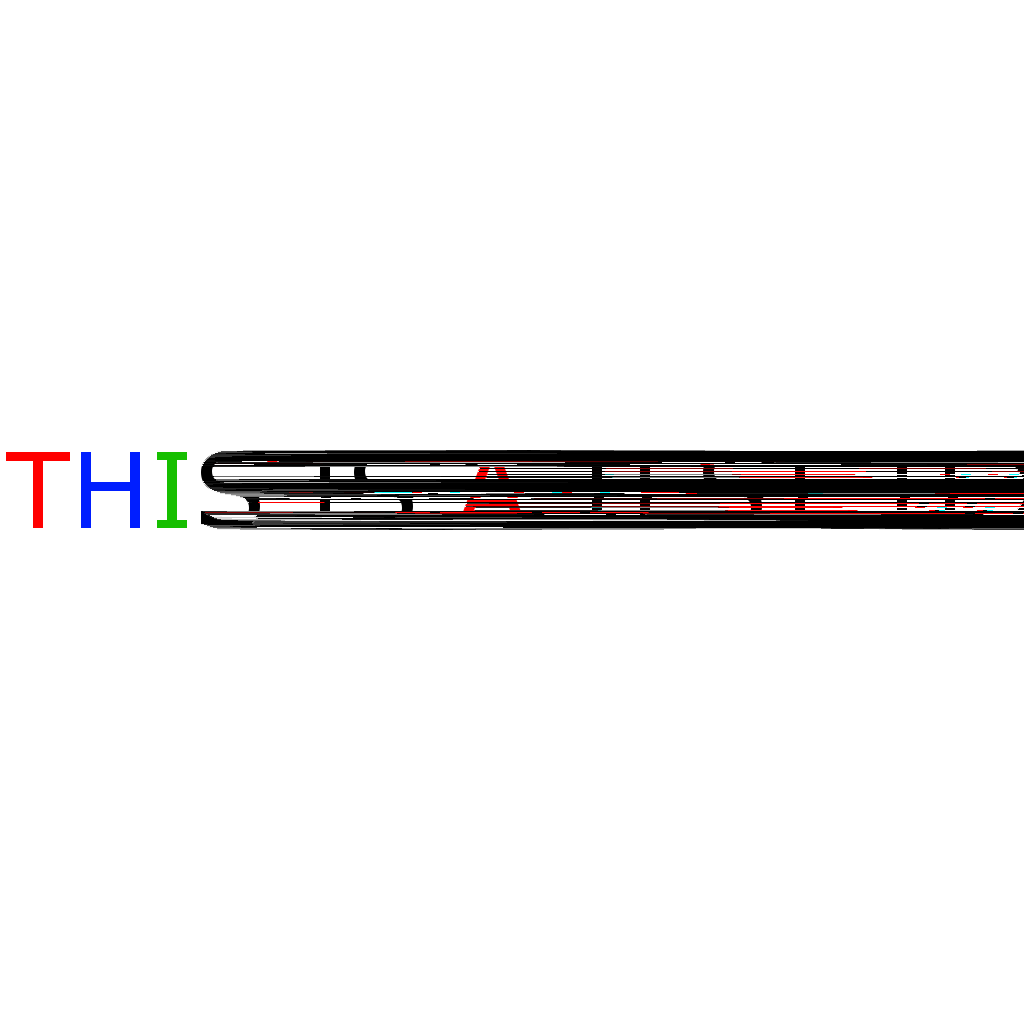
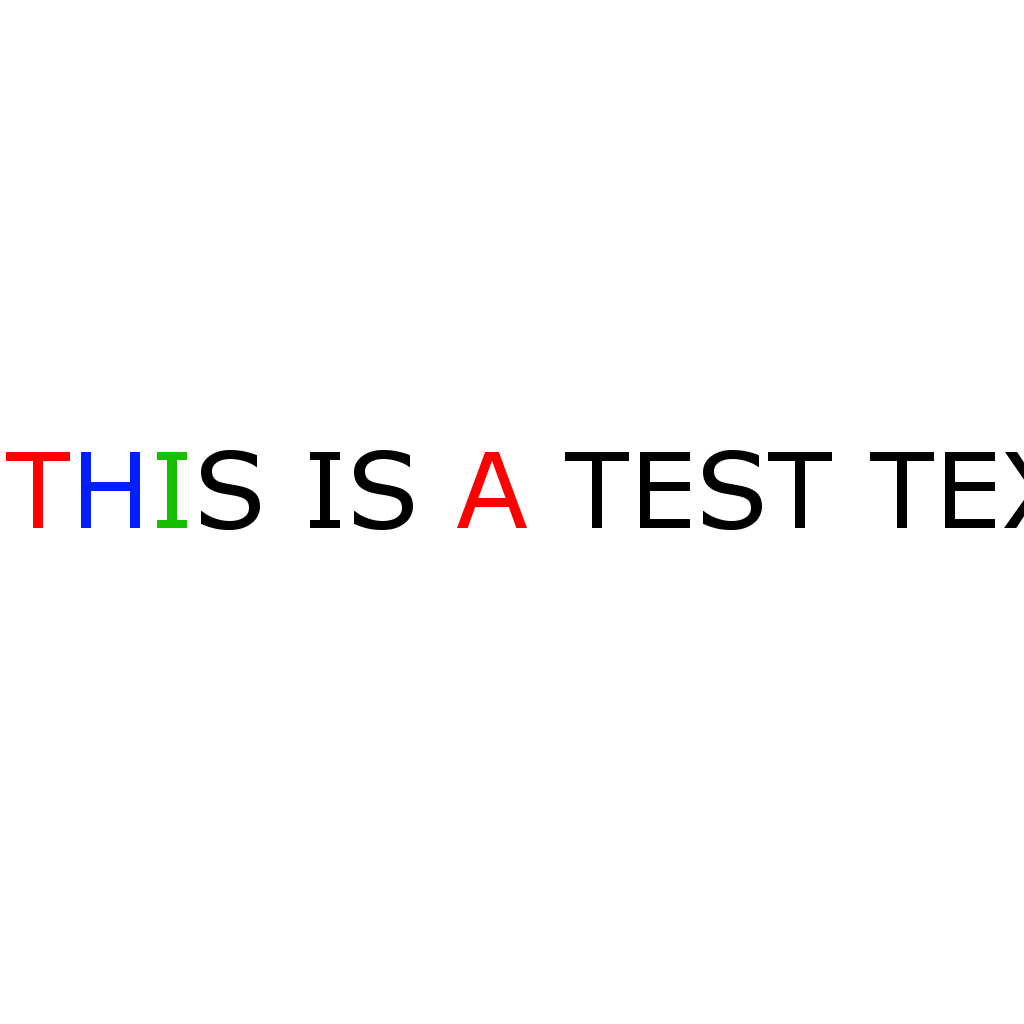
Fixed the RLE bug in the SGI texture reader :)

Changed region(s): [[0.1875, 0.4375, 1.0, 0.5312]]

diff --git a/UnityFLT/Assets/UFLT/Textures/TextureSGI.cs b/UnityFLT/Assets/UFLT/Textures/TextureSGI.cs
@@ -19,15 +19,15 @@ namespace UFLT.Textures
 	public class TextureSGI 
 	{
 		#region Properties
-		
-		/// <summary>
-		/// Is this a valid rgb file?
-		/// </summary>	
-		public bool Valid
-		{
-			get;
-			set;
-		}
+
+        /// <summary>
+        /// SGI file path.
+        /// </summary>
+        public string File
+        {
+            get;
+            set;
+        }			
 		
 		/// <summary>
 		/// Does the file use run length encoding?
@@ -147,12 +147,19 @@ namespace UFLT.Textures
 		{
 			get
 			{
-				if( _Texture == null && Valid )
+				if( _Texture == null )
 				{
+                    if( PixelsBPC1 == null && PixelsBPC2 == null )
+                        ReadPixels();
+
                     _Texture = new Texture2D( Size[0], Size[1], Size[2] == 4 ? TextureFormat.ARGB32 : TextureFormat.RGB24, true );
 					_Texture.hideFlags = HideFlags.DontSave;
-					if( BPC == 1 )_Texture.SetPixels32( PixelsBPC1 );
-					else _Texture.SetPixels( PixelsBPC2 );
+
+					if( BPC == 1 )
+                        _Texture.SetPixels32( PixelsBPC1 );
+					else 
+                        _Texture.SetPixels( PixelsBPC2 );
+
 					_Texture.Apply();
 					//_Texture.Compress( true ); // Compress into DXT format
 					_Texture.name = Name;
@@ -169,28 +176,15 @@ namespace UFLT.Textures
 		
 		//////////////////////////////////////////////////////////////////////
 		/// <summary>
-		/// Loads a SGI rgb, rgba or int texture file.
+		/// Loads a SGI rgb, rgba or int texture file. 
+        /// Throws exception if the file can not be read or is not valid.
 		/// </summary>
 		/// <param name='filePath'></param>
 		//////////////////////////////////////////////////////////////////////
 		public TextureSGI( string filePath )		
 		{
-			Valid = false;
-			
-			// Load file
-            try
-            {
-                using( Stream s = new FileStream( filePath, FileMode.Open ) )
-                {
-                    _Reader = BitConverter.IsLittleEndian ? new BinaryReaderBigEndian( s ) : new BinaryReader( s );
-                    ReadHeader();
-                    ReadPixels();
-                }
-            }
-            catch( System.Exception e )
-            {
-                Debug.LogException( e );
-            }
+            File = filePath;
+            ReadHeader();                                           
 		}	
 		
 		//////////////////////////////////////////////////////////////////////
@@ -200,36 +194,42 @@ namespace UFLT.Textures
 		//////////////////////////////////////////////////////////////////////
 		void ReadHeader()
 		{
-			// Magic number
-			short magic = _Reader.ReadInt16();		
-			if( magic != 474 )
-			{				
-				_Reader.Close();
-				Debug.LogError( "Invalid file, the file header does not contain the correct magic number(474)" );
-				return;
-			}
-			
-			Valid = true;			
-			RLE = _Reader.ReadSByte() == 1 ? true : false;		
-			BPC = _Reader.ReadSByte();
-			Dimension = _Reader.ReadUInt16();
-			Size = new ushort[]{ _Reader.ReadUInt16(), _Reader.ReadUInt16(), _Reader.ReadUInt16() };
-			PixMinMax = new int[]{ _Reader.ReadInt32(), _Reader.ReadInt32() };
-					
-			// Skip dummy data
-			_Reader.BaseStream.Seek( 4, SeekOrigin.Current ); 
-			
-			// Null terminated name.
-			Name = NullTerminatedString.GetAsString( _Reader.ReadBytes( 80 ) );
-			ColorMapID = _Reader.ReadInt32();
-					
-			// Skip dummy data
-			_Reader.BaseStream.Seek( 404, SeekOrigin.Current );            
-			
-			if( RLE )
-			{
-				ReadOffsets();	
-			}								
+            Stream s = new FileStream( File, FileMode.Open );
+            _Reader = BitConverter.IsLittleEndian ? new BinaryReaderBigEndian( s ) : new BinaryReader( s );
+
+            try
+            {
+                // Magic number	
+                if( _Reader.ReadInt16() != 474 )
+                {
+                    throw new Exception( "Invalid file, the file header does not contain the correct magic number(474)" );
+                }
+
+                RLE = _Reader.ReadSByte() == 1 ? true : false;
+                BPC = _Reader.ReadSByte();
+                Dimension = _Reader.ReadUInt16();
+                Size = new ushort[] { _Reader.ReadUInt16(), _Reader.ReadUInt16(), _Reader.ReadUInt16() };
+                PixMinMax = new int[] { _Reader.ReadInt32(), _Reader.ReadInt32() };
+
+                // Skip dummy data
+                _Reader.BaseStream.Seek( 4, SeekOrigin.Current );
+
+                // Null terminated name.
+                Name = NullTerminatedString.GetAsString( _Reader.ReadBytes( 80 ) );
+                ColorMapID = _Reader.ReadInt32();
+
+                // Skip dummy data
+                _Reader.BaseStream.Seek( 404, SeekOrigin.Current );
+
+                if( RLE )
+                {
+                    ReadOffsets();
+                }
+            }
+            finally
+            {
+                _Reader.Close();
+            }
 		}			
 				
 		//////////////////////////////////////////////////////////////////////
@@ -247,11 +247,11 @@ namespace UFLT.Textures
 			{
 				RowStart[i] = _Reader.ReadInt32();
 			}
-			
+
 			for( int i = 0; i < count; ++i )
-			{
+			{                
 				RowSize[i] = _Reader.ReadInt32();
-			}				
+			}
 		}		
 		
 		//////////////////////////////////////////////////////////////////////
@@ -268,34 +268,44 @@ namespace UFLT.Textures
 			//how many times to repeat the value of the following short, in the destination. This process proceeds until a count of
 			//0 is found. This should decompress exactly XSIZE pixels. Note that the byte order of short data in the input file 
 			//should be used, as described above.
-	
-			// Read in each row
-			//Color32[][] pixels = new Color32[Size[1]][];
-			PixelsBPC1 = new Color32[Size[0] * Size[1]];		
-			for( int y = 0; y < Size[1]; ++y )
-			{					
-				for( int channel = 0; channel < Size[2]; ++channel )
-				{
-					ReadRowBPC1( y, channel );	
-				}
-			}	
-			
-			if( Size[2] == 1 )			
-			{
-				// Grayscale
-				for( int i = 0; i < PixelsBPC1.Length; ++i )					
-				{
-					PixelsBPC1[i].b = PixelsBPC1[i].g = PixelsBPC1[i].r;
-					PixelsBPC1[i].a = 0xff;
-				}
-			}
-			else if( Size[2] == 3 )
-			{				
-				for( int i = 0; i < PixelsBPC1.Length; ++i )					
-				{				
-					PixelsBPC1[i].a = 0xff;
-				}	
-			}			
+
+            Stream s = new FileStream( File, FileMode.Open );
+            _Reader = BitConverter.IsLittleEndian ? new BinaryReaderBigEndian( s ) : new BinaryReader( s );
+
+            try
+            {
+                // Read in each row
+                //Color32[][] pixels = new Color32[Size[1]][];
+                PixelsBPC1 = new Color32[Size[0] * Size[1]];
+                for( int y = 0; y < Size[1]; ++y )
+                {
+                    for( int channel = 0; channel < Size[2]; ++channel )
+                    {
+                        ReadRowBPC1( y, channel );
+                    }
+                }
+
+                if( Size[2] == 1 )
+                {
+                    // Grayscale
+                    for( int i = 0; i < PixelsBPC1.Length; ++i )
+                    {
+                        PixelsBPC1[i].b = PixelsBPC1[i].g = PixelsBPC1[i].r;
+                        PixelsBPC1[i].a = 0xff;
+                    }
+                }
+                else if( Size[2] == 3 )
+                {
+                    for( int i = 0; i < PixelsBPC1.Length; ++i )
+                    {
+                        PixelsBPC1[i].a = 0xff;
+                    }
+                }
+            }
+            finally
+            {
+                _Reader.Close();
+            }
 		}
 		
 		//////////////////////////////////////////////////////////////////////
@@ -326,12 +336,10 @@ namespace UFLT.Textures
 				{				
 					pixel = rowData[currentRowData++];				
 					pixelCount = ( byte )( pixel & 0x7F ); // bits 0-6				
-					if( pixelCount == 0 )
-					{
-						break;	
-					}
+					if( pixelCount == 0 )					
+						break;						
 									
-					if( ( pixel & 0x80 ) == 1 ) // specify how many bytes to copy from the RLE data buffer to the destination
+					if( ( pixel & 0x80 ) != 0 ) // specify how many bytes to copy from the RLE data buffer to the destination
 					{					
 						while( pixelCount-- > 0 )
 						{

diff --git a/UnityFLT/Assets/UFLT/Editor/Importer/CustomImporterSGI.cs b/UnityFLT/Assets/UFLT/Editor/Importer/CustomImporterSGI.cs
@@ -48,15 +48,19 @@ namespace UFLT.Editor.Importer
         public override void OnSourceFileImported()
         {            
             string sourceFilePath = AssetDatabase.GUIDToAssetPath( guid );
-            string textureOutFilePath = sourceFilePath.Replace( Path.GetExtension( sourceFilePath ), textureFormat == OutputFormat.PNG ? "_Converted.png" : "_Converted.jpg" );            
-            TextureSGI textureLoader = new TextureSGI( sourceFilePath );
+            string textureOutFilePath = sourceFilePath.Replace( Path.GetExtension( sourceFilePath ), textureFormat == OutputFormat.PNG ? "_Converted.png" : "_Converted.jpg" );
 
-            if( textureLoader.Valid )
+            try
             {
+                TextureSGI textureLoader = new TextureSGI( sourceFilePath );
                 byte[] texBytes = textureFormat == OutputFormat.PNG ? textureLoader.Texture.EncodeToPNG() : textureLoader.Texture.EncodeToJPG();
                 File.WriteAllBytes( textureOutFilePath, texBytes );
                 AssetDatabase.ImportAsset( textureOutFilePath );
             }
+            catch( Exception e )
+            {
+                Debug.LogException( e );
+            }            
         }
 
         public override void OnSourceFileMoved()

diff --git a/UnityFLT/Assets/UFLT/Utils/MatrixUtils.cs b/UnityFLT/Assets/UFLT/Utils/MatrixUtils.cs
@@ -4,7 +4,7 @@ using System;
 namespace UFLT.Utils
 {    
     /// <summary>
-    /// Taken from the Unity forumns:
+    /// Taken from the Unity forum's:
     /// http://forum.unity3d.com/threads/121966-How-to-assign-Matrix4x4-to-Transform
     /// Extension functions for converting a Matrix into position, rotation and scale values.
     /// </summary>    
